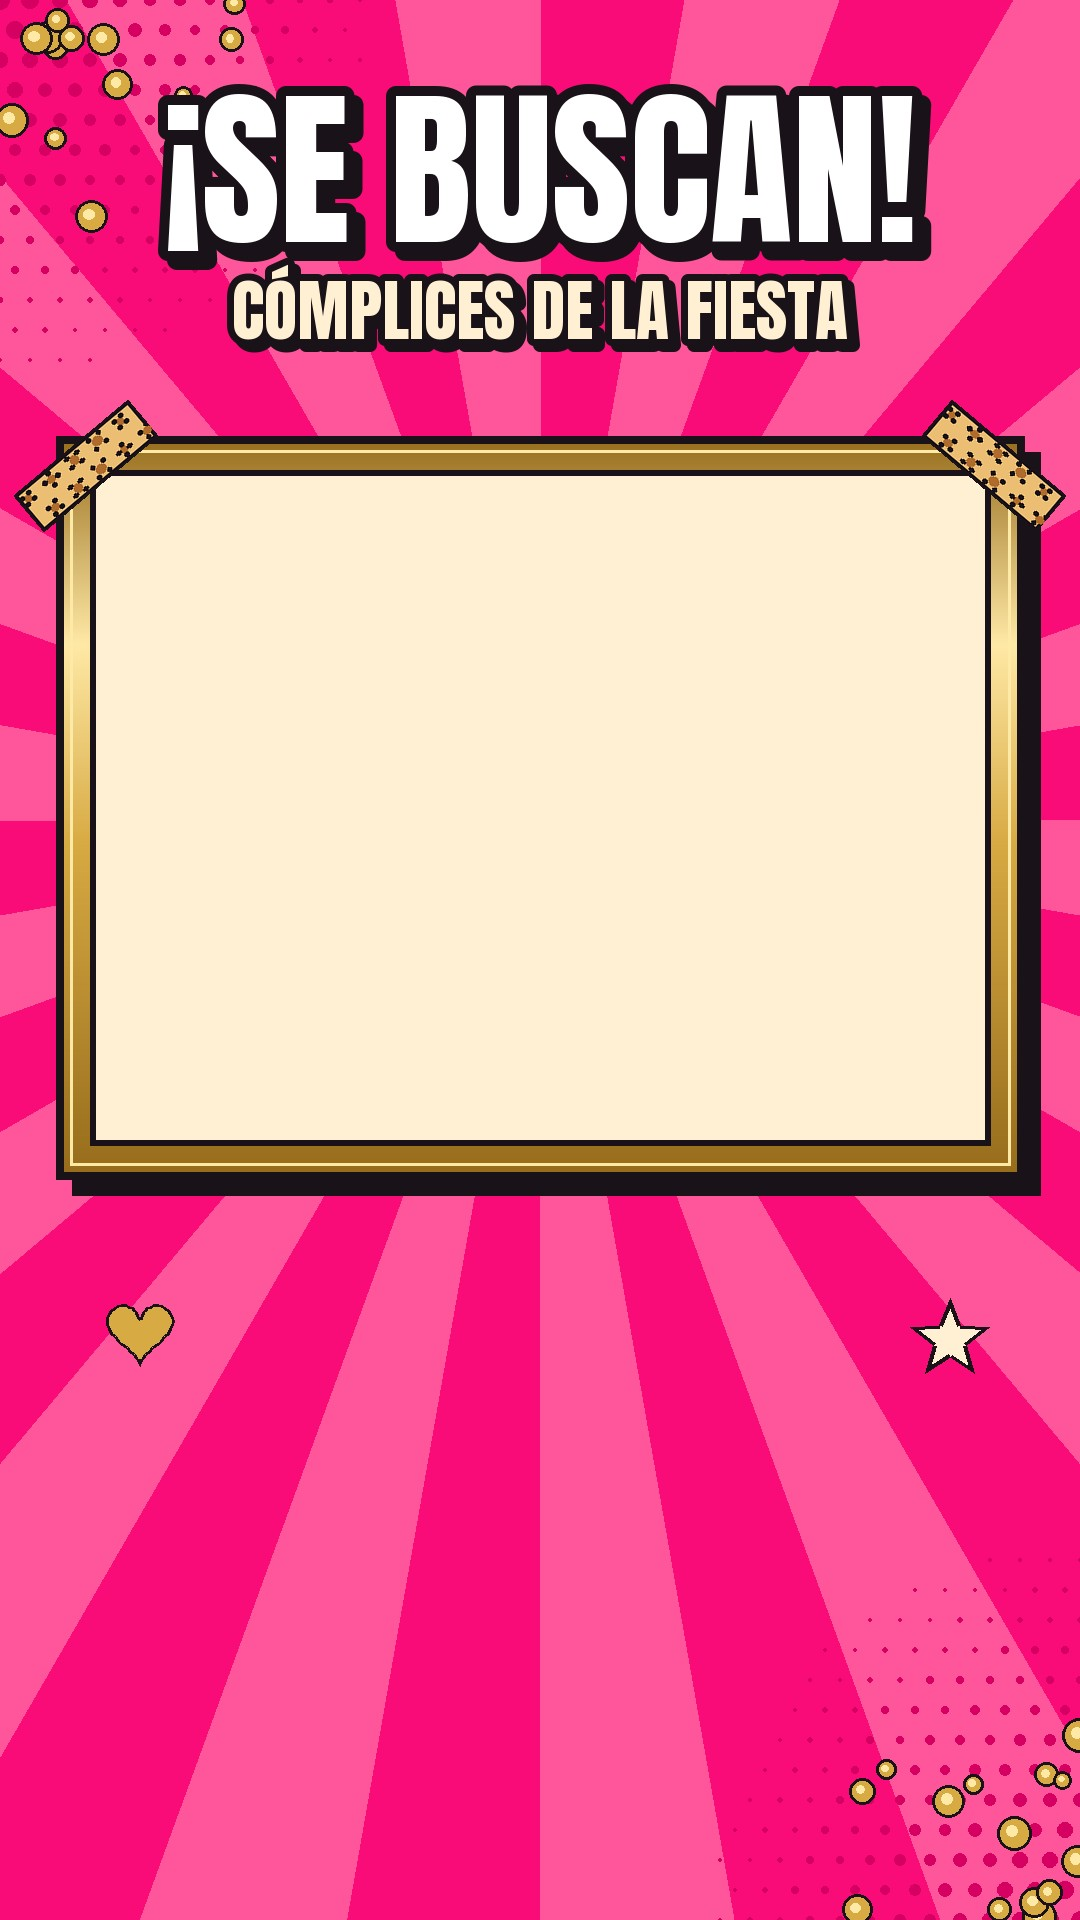
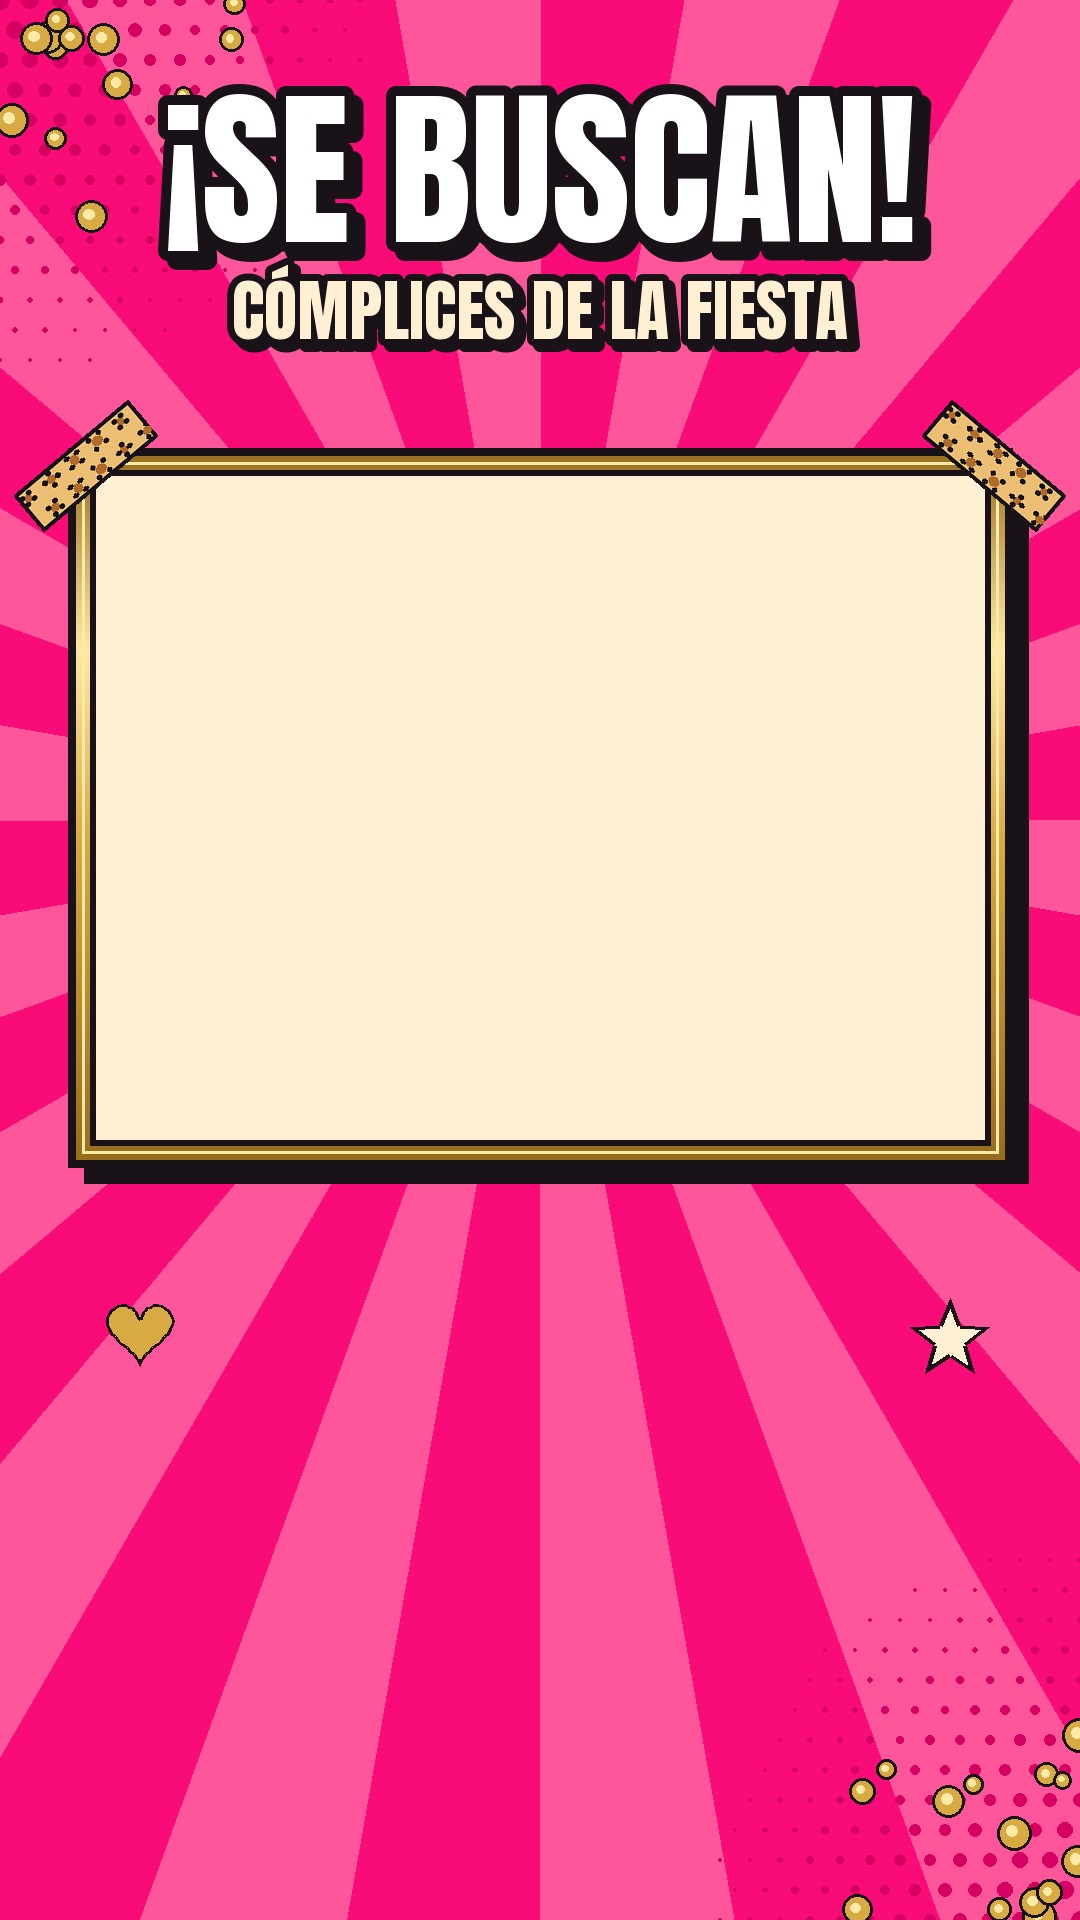
feat(cumpleclick): invitación de cumpleaños de adulto, foto grupal «cómplices» y ticket 026
- invitacion.php: en un cumpleaños de adulto no suena la narración de Alice
  (le habla a un niño), no hay capítulos, el video del evento se ve con su
  póster y controles (sin repetir la tarjeta encima) y la asistencia pide
  «tu nombre» y «¿vienes con alguien?» en vez de niños y apoderados.
- Foto grupal adulta: «Los cómplices de <nombre>», moldura más delgada para
  que el título no pise el marco.
- Prueba cumple-adulto-http.php: 36 comprobaciones, con control en rojo de
  la narración.
- Ticket AT-CUMPLECLICK-026, docs/CUMPLE-ADULTO-COQUETERIA.md y la sección
  PENDIENTE del FTP-MANIFEST con el orden de subida.

Changed region(s): [[0.0306, 0.2188, 0.9778, 0.625], [0.1222, 0.2188, 0.8861, 0.25]]

diff --git a/CumpleBooth/src/App.jsx b/CumpleBooth/src/App.jsx
@@ -2001,6 +2001,8 @@ function componerGrupal(fondoImg, fotoImg, caja, titulo, opciones = {}) {
 /** El texto del pie. En grupo saluda a todos; solo, al invitado. */
 function tituloAsomate(invitado, cuantos) {
   const quien = nombreEvento()
+  // En un cumpleaños de adulto la foto de todos sigue la broma de la temática: «cómplices».
+  if (cuantos > 1 && CABINA_ADULTO) return quien ? `Los cómplices de ${quien}` : '¡Los cómplices!'
   if (cuantos > 1) return quien ? `El cumple de ${quien} y sus amigos` : '¡Amigos!'
   if (invitado && quien) return `${invitado} en el cumple de ${quien}`
   if (quien) return `¡Feliz cumple, ${quien}!`

diff --git a/CumpleBooth/public/invitacion.php b/CumpleBooth/public/invitacion.php
@@ -49,6 +49,9 @@ if (!empty($invitation['expires_at']) && strtotime((string) $invitation['expires
 // dependen ya la narración y el vocabulario. `event_type` trae
 // 'child_birthday' por defecto, así que un cumpleaños no cambia nada.
 $esBabyShower = (string) ($invitation['event_type'] ?? 'child_birthday') === 'baby_shower';
+// Cumpleaños de adulto (AT-CUMPLECLICK-026): sin la voz de Alice (le habla a un niño), sin
+// capítulos de personajes y con un formulario de asistencia para adultos.
+$esAdulto = (string) ($invitation['event_type'] ?? '') === 'adult_birthday';
 
 $imageOutputs = cb_invitation_approved_outputs((int) $invitation['id'], 'personalized_image');
 if (!$imageOutputs) {
@@ -134,6 +137,12 @@ if (!is_file($narrationPlaylistEndPath)) {
 if (is_file($narrationPlaylistEndPath)) {
     $narrationPlaylistEndUrl = 'assets/audio/' . rawurlencode($narrationPlaylistEndFile)
         . '?v=' . rawurlencode((string) filemtime($narrationPlaylistEndPath));
+}
+
+if ($esAdulto) {
+    // Las dos narraciones compartidas dicen «cumpleañero/a» con voz para niños.
+    $narrationOutroUrl = '';
+    $narrationPlaylistEndUrl = '';
 }
 
 $themeData = is_array($themesData['themes'][$themeSlug] ?? null) ? $themesData['themes'][$themeSlug] : [];
@@ -796,6 +805,10 @@ if ($isPreview) {
     $tieneCapitulos = preg_match('/^[a-z0-9-]+$/', $themeSlug) === 1
         && is_dir(__DIR__ . '/themes/' . $themeSlug . '/invitation/chapters');
     $planChapters = $tieneCapitulos ? '1' : 'auto';
+}
+if ($esAdulto && !$isPreview) {
+    // Los capítulos y la playlist son el recorrido de personajes de las temáticas infantiles.
+    $planChapters = 'none';
 }
 
 // Comparación de candidatos detrás del modo resuelto. La versión aprobada de
@@ -1557,13 +1570,16 @@ $cssVer = static function (string $rel): string {
     </figure>
     <?php else: ?>
     <figure class="inv-art-frame">
+      <?php // Adulto con video: la tarjeta va como póster del video, no repetida encima. ?>
+      <?php if (!($esAdulto && $hasVideo)): ?>
       <img class="inv-art" src="<?= $esc($imageUrl) ?>" alt="<?= $esc($tituloInvitacion) ?>" decoding="async">
+      <?php endif; ?>
       <?php if ($hasVideo): ?>
       <?php /* Sin loop ni muted: el invitado lo inicia con un toque (gesto que
                ya permite el sonido) y al terminar la página avanza sola a los
                datos de la fiesta — un video de invitación se ve UNA vez, no en
                bucle mudo (pedido de Luis con la invitación de Luciano). */ ?>
-      <video class="inv-art-video" src="<?= $esc((string) $videoUrl) ?>" controls playsinline preload="metadata" data-inv-video-final></video>
+      <video class="inv-art-video" src="<?= $esc((string) $videoUrl) ?>" poster="<?= $esc($imageUrl) ?>" aria-label="<?= $esc($tituloInvitacion) ?>" controls playsinline preload="metadata" data-inv-video-final></video>
       <?php endif; ?>
     </figure>
     <?php endif; ?>
@@ -1761,7 +1777,7 @@ $cssVer = static function (string $rel): string {
     <p class="inv-share-status" data-share-status role="status" aria-live="polite"></p>
   </section>
 
-  <?php if ($eventProfile !== null): ?>
+  <?php if ($eventProfile !== null && !$esAdulto): ?>
   <section class="inv-finale inv-reveal" id="inv-protagonista">
     <p class="inv-kicker"><?= $esc($esBabyShower ? 'Antes del baby shower' : 'Antes de la fiesta') ?></p>
     <h2 class="inv-finale-title"><?= $esc($finaleTitulo) ?></h2>
@@ -1928,7 +1944,7 @@ $cssVer = static function (string $rel): string {
            data-inv-base="<?= $esc(rtrim((string) cb_public_base_url(), '/')) ?>/">
     <p class="inv-kicker">¿Nos acompañas?</p>
     <h2 class="inv-finale-title">Confirma tu asistencia</h2>
-    <p class="inv-finale-lede"><?= $esc($esBabyShower
+    <p class="inv-finale-lede"><?= $esc($esBabyShower || $esAdulto
         ? 'Dinos tu nombre y te guardamos un lugar.'
         : 'Cuéntanos quiénes vienen para recibirlos como estrellas.') ?></p>
     <button class="inv-button inv-rsvp-open" type="button" data-rsvp-open>
@@ -1939,15 +1955,15 @@ $cssVer = static function (string $rel): string {
       <form data-rsvp-form>
         <h3 class="inv-rsvp-title">Confirma tu asistencia</h3>
         <label class="inv-rsvp-campo">
-          <span><?= $esc($esBabyShower ? 'Tu nombre' : 'Nombre del apoderado o familia') ?></span>
+          <span><?= $esc($esBabyShower || $esAdulto ? 'Tu nombre' : 'Nombre del apoderado o familia') ?></span>
           <input type="text" name="family_name" maxlength="120" required
                  placeholder="<?= $esc($esBabyShower ? 'Ej: Carolina Díaz' : 'Ej: Familia Díaz / Carolina Díaz') ?>">
         </label>
         <?php if (!$esBabyShower): ?>
         <label class="inv-rsvp-campo">
-          <span>Nombre de los niños que vienen</span>
+          <span><?= $esc($esAdulto ? '¿Vienes con alguien? (opcional)' : 'Nombre de los niños que vienen') ?></span>
           <input type="text" name="guest_names" maxlength="400"
-                 placeholder="Ej: Emma y Lucas">
+                 placeholder="<?= $esc($esAdulto ? 'Ej: con Jorge' : 'Ej: Emma y Lucas') ?>">
         </label>
         <?php endif; ?>
         <p class="inv-rsvp-error" data-rsvp-error hidden>No pudimos guardar tu confirmación. Inténtalo de nuevo.</p>
@@ -1961,7 +1977,7 @@ $cssVer = static function (string $rel): string {
         <h3 class="inv-rsvp-title">¡Asistencia confirmada!</h3>
         <p><?= $esc($esBabyShower
             ? 'Gracias por avisar. ¡Nos vemos en el baby shower!'
-            : '¡La familia ya sabe que vienen! Nos vemos en la fiesta.') ?></p>
+            : ($esAdulto ? '¡Te esperamos! Nos vemos en la fiesta.' : '¡La familia ya sabe que vienen! Nos vemos en la fiesta.')) ?></p>
         <button class="inv-button inv-button-ghost" type="button" data-rsvp-cerrar>Cerrar</button>
       </div>
     </dialog>

diff --git a/CumpleBooth/tests/backend/cumple-adulto-http.php b/CumpleBooth/tests/backend/cumple-adulto-http.php
@@ -146,6 +146,33 @@ a_check(in_array('🍆', $api['theme']['cabinaAdulto']['juego']['emojis'], true)
 a_check($api['theme']['musica'] === '', 'sin pista en disco no se publica música');
 a_check(is_array($api['theme']['grupal']) && str_ends_with($api['theme']['grupal']['fondo'], 'fondo-grupal.jpg'), 'la foto grupal tiene su fondo');
 
+// La invitación de un cumpleaños de adulto: tarjeta + video del evento (subidos y aprobados),
+// sin la voz de Alice (le habla a un niño) y con un formulario de asistencia para adultos.
+$tokenInv = cb_opaque_token(16);
+$ahora = gmdate('Y-m-d H:i:s');
+cb_pdo()->prepare('INSERT INTO cc_invitations (public_token_hash,party_id,theme_slug,admin_label,birthday_person_name,
+    birthday_person_gender,event_type,event_date,event_time,address,message,language,channel,status,
+    visual_version,created_at,updated_at,created_by,published_at,published_by) VALUES (?,?,?,?,?,?,?,?,?,?,?,?,?,?,?,?,?,?,?,?)')
+    ->execute([cb_hash_token($tokenInv), cb_party_db_id($slug), 'adulto-coqueteria-pop', 'Prueba adulta', 'Marta Prueba', 'f',
+        'adult_birthday', '2026-12-04', '19:00', 'Calle Ficticia 123', 'Los peques a soñar; los grandes a celebrar.',
+        'es', 'link', 'published', 1, $ahora, $ahora, 'test', $ahora, 'test']);
+$invId = (int) cb_pdo()->lastInsertId();
+$dirInv = (string) cb_config('invitation_dir');
+$lienzo = imagecreatetruecolor(90, 160);
+foreach ([['personalized_image', 'lamina', 'jpg', 'image/jpeg'], ['personalized_video', 'video', 'mp4', 'video/mp4']] as [$tipo, $clave, $ext, $mime]) {
+    $key = cb_invitation_storage_key($slug, $clave, 1, $ext);
+    @mkdir(dirname($dirInv . '/' . $key), 0770, true);
+    $ext === 'jpg' ? imagejpeg($lienzo, $dirInv . '/' . $key) : file_put_contents($dirInv . '/' . $key, str_repeat("\0", 64));
+    cb_save_invitation_output($invId, ['output_type' => $tipo, 'asset_key' => $clave, 'file_storage_key' => $key, 'status' => 'approved',
+        'file_mime' => $mime, 'file_byte_size' => filesize($dirInv . '/' . $key), 'file_sha256' => hash_file('sha256', $dirInv . '/' . $key)]);
+}
+$r = $luis->pedir('GET', '/invitacion.php?t=' . $tokenInv);
+a_check($r['estado'] === 200 && str_contains($r['html'], 'Marta Prueba'), 'la invitación adulta abre');
+a_check(!str_contains($r['html'], 'narracion-final') && !str_contains($r['html'], 'narracion-playlist-final'), 'sin la narración de Alice para niños');
+a_check(preg_match('#<video class="inv-art-video"[^>]*poster="[^"]+"[^>]*controls#', $r['html']) === 1, 'el video del evento se inicia a mano y muestra la tarjeta como póster');
+a_check(!str_contains($r['html'], 'Nombre de los niños') && !str_contains($r['html'], 'apoderado'), 'la asistencia no pregunta por niños ni apoderados');
+a_check(str_contains($r['html'], 'Los peques a soñar; los grandes a celebrar.'), 'el mensaje del anfitrión se muestra');
+
 // La infantil no cambia.
 cb_save_parties(['parties' => array_merge(cb_load_parties()['parties'], ['tomas-infantil' => [
     'nombre' => 'Tomás', 'tema' => 'spidey', 'edad' => 6, 'fecha' => '2026-12-05', 'activa' => true,

diff --git a/CumpleBooth/design/generadores/tematicas/coqueteria_pop.py b/CumpleBooth/design/generadores/tematicas/coqueteria_pop.py
@@ -274,7 +274,8 @@ def fondo_grupal():
     alto = round((x1 - x0) * 3 / 4)
     y0 = 470
     y1 = y0 + alto
-    borde = 34
+    # Moldura delgada: el kiosco escribe el título del grupo 26 px bajo el hueco (componerGrupal).
+    borde = 22
     marco_dorado(im, x0 - borde, y0 - borde, x1 + borde, y1 + borde, borde)
     cinta_esquina(im, x0 - 4, y0 - 4, 40)
     cinta_esquina(im, x1 + 4, y0 - 4, -40)

diff --git a/CumpleBooth/docs/CUMPLE-ADULTO-COQUETERIA.md b/CumpleBooth/docs/CUMPLE-ADULTO-COQUETERIA.md
@@ -1,0 +1,69 @@
+# Cumpleaños de adulto y temática «Coquetería Pop» (AT-CUMPLECLICK-026)
+
+Estado al 2026-10-11: **LOCAL, sin desplegar**. Rama `claude/cumple-adulto-coqueteria`, base `origin/main` (`188ba45`).
+Ticket: `Docs/ORCHESTRATION/AT-CUMPLECLICK-026.yaml`.
+
+El piloto es un cumpleaños privado. Sus datos, fotos, video y dirección **no están ni deben estar** en este repositorio
+(es público): viven en el paquete privado de Codex y, al desplegar, en la base y el almacén privado de PROD.
+
+## Qué es
+
+Una tercera modalidad de evento, `adult_birthday`, junto a `child_birthday` y `baby_shower`, y una temática genérica
+para ella. La temática no lleva nombre, edad ni fotos: el kiosco escribe el nombre y la edad de la fiesta encima.
+
+| Pieza | Dónde | Qué hace |
+|---|---|---|
+| Modalidad | `public/lib.php` `cb_party_event_type()` | Reemplaza los nueve `=== 'baby_shower' ? … : 'child_birthday'` que había repartidos. Lo desconocido cae a infantil. |
+| Guarda de temática | `cb_theme_is_adult()` + admin + `cb_resolve_party()` | Temática adulta solo con cumpleaños de adulto y al revés. El admin avisa; `api.php` responde 409 si la base trae el cruce. |
+| Edad | `cb_party_age_valid()` | Niño 1–17, adulto 18–120. **Antes se recortaba a 17 al guardar y «69» se perdía sin aviso.** |
+| Temática | `public/data/themes.json` → `adulto-coqueteria-pop` | `audiencia: adulto`, sin personajes, `frameBox`, `grupal` y el bloque `cabinaAdulto` (frases, lema, recuerdo, cinta, panel, juego). |
+| Fondos | `public/themes/adulto-coqueteria-pop/` | `fondo-sala.jpg` (marco «¡Se busca!»), `fondo-banner.jpg` (bienvenida), `fondo-grupal.jpg`. Hechos con código, sin IA: `design/generadores/tematicas/coqueteria_pop.py`. |
+| Kiosco | `src/App.jsx`, `src/cumpleAdulto.js` | Bienvenida → «¡Atrapa la coquetería!» (se puede saltar) → elegir frase → cámara → ficha → QR. Sin ruleta, sin diploma, sin música si no hay pista. |
+| Invitación | `public/invitacion.php` | Sin la voz de Alice (le habla a un niño), sin capítulos, video del evento con póster y controles, asistencia para adultos. |
+
+## Contrato de `cabinaAdulto` (themes.json)
+
+```json
+"cabinaAdulto": {
+  "titulo": "gente con ganas de pasarlo bien",
+  "lema": "{edad} y todavía doy guerra",
+  "recuerdo": "Cómplice oficial de {nombre}",
+  "cinta": {"x": 0.0833, "y": 0.6229, "w": 0.8333, "h": 0.0521},
+  "panel": {"x": 0.0741, "y": 0.6979, "w": 0.8519, "h": 0.1875},
+  "frases": ["…hasta 12, de hasta 48 letras; {nombre} permitido…"],
+  "juego": {"label": "¡Atrapa la coquetería!", "emojis": ["🍆", "🍑", "💋", "🍒", "🌶"]}
+}
+```
+
+`cb_theme_cabina_adulto()` lo copia campo por campo. Una cinta o un panel fuera del lienzo invalidan el bloque. Solo una
+temática adulta lo publica; el kiosco infantil no recibe ni la clave. Sin `{edad}` en la fiesta, el lema cambia entero
+(«Y todavía doy guerra»), y sin nombre «Cómplice oficial de la fiesta»: nunca queda un hueco.
+
+`cinta` y `panel` son las cajas que el generador pinta vacías en `fondo-sala.jpg`; si se rehace el fondo, se copian los
+valores que imprime el script.
+
+## Juego de atrapar
+
+Es el mismo `JuegoCopos` del baby shower («Atrapa los chupetes»), con 20 segundos y los emojis del bloque. Los de doble
+sentido (🍆🍑) son el pedido de Luis («atrapa algo asociado a la temática»). Se eligieron emojis y no dibujos explícitos
+porque funcionan en cualquier tablet, no cuestan nada y la foto se puede mostrar en la fiesta. El puntaje queda impreso
+en la ficha.
+
+## Lo que sigue siendo propuesta (no implementado)
+
+El paquete de Codex propone un modo animador con tarjetas, cronómetro y puntaje por equipos (Tribunal de la coquetería,
+Piropos bajo arresto, Doble sentido, Dueña del swing…). Luis no lo aprobó: no se programó. El guion y las tarjetas del
+paquete sirven impresos o en el celular del animador.
+
+## Cómo probarlo en local
+
+- `node --test tests/frontend/cumpleAdulto.test.mjs` (textos y temática genérica).
+- `php tests/backend/cumple-adulto-http.php` (36: admin, api del kiosco, invitación, fiesta infantil sin cambios y cruce
+  en la base). Tiene dos controles en rojo hechos: con el tope viejo de 17 falla la edad, y sin la guarda de la narración
+  falla «sin la narración de Alice».
+- El recorrido del kiosco se probó con Chrome sin ventana y una cámara falsa (retrato ficticio), en una SQLite temporal.
+
+## No probado
+
+Tablet real, cámara real con personas (grupos, alturas, gafas), impresión, la invitación en un teléfono real, el video
+verdadero del evento (el local usó uno de 2 s hecho con el fondo).

diff --git a/CumpleBooth/docs/FTP-MANIFEST.md b/CumpleBooth/docs/FTP-MANIFEST.md
@@ -21,6 +21,32 @@ grep -o 'assets/[a-zA-Z0-9._-]*' dist/index.html   # lo que index.html pide
 Sube **todos** los de `dist/assets/` junto con `dist/index.html` en la misma
 tanda. Los que sobren del build anterior se pueden borrar después.
 
+## PENDIENTE 2026-10-11 — cumpleaños de adulto y temática Coquetería Pop (AT-CUMPLECLICK-026, LOCAL)
+
+Nada de esto está en PROD. Rama `claude/cumple-adulto-coqueteria` sobre `origin/main`. Detalle en
+`docs/CUMPLE-ADULTO-COQUETERIA.md`. **Sin migración** (`event_type` es VARCHAR(40) y `birthday_age` TINYINT).
+Requiere el go de Luis.
+
+Orden de subida (destino `app/`, origen `dist/` después de `npx vite build`):
+
+| # | Local | Destino PROD | Clase |
+|---|---|---|---|
+| 1 | `dist/themes/adulto-coqueteria-pop/fondo-sala.jpg`, `fondo-banner.jpg`, `fondo-grupal.jpg` | `app/themes/adulto-coqueteria-pop/` (carpeta nueva) | OBLIGATORIO |
+| 2 | `dist/lib.php` | `app/lib.php` | OBLIGATORIO, antes que los PHP de abajo (define `cb_party_event_type`) |
+| 3 | `dist/lib.invitations.php`, `dist/lib.predictions.php`, `dist/ver.php`, `dist/invitacion.php` | `app/` | OBLIGATORIO |
+| 4 | `dist/admin/index.php` | `app/admin/index.php` | OBLIGATORIO |
+| 5 | `dist/data/themes.json` | `app/data/themes.json` | OBLIGATORIO |
+| 6 | `dist/assets/` que referencia el `index.html` nuevo y no estén en PROD (al 11-oct: `main-*.js`, `main-*.css`, `anton-latin-400-normal-*.woff2`; cotejar el resto por nombre) | `app/assets/` | OBLIGATORIO |
+| 7 | `dist/index.html` | `app/index.html` | OBLIGATORIO, al final |
+
+No subir: `design/generadores/`, `tests/`, `docs/`, ni el paquete privado del piloto. Las fotos y el video del piloto
+se suben **por el admin** (Invitaciones → imagen y video aprobados), que los guarda en el almacén privado fuera de
+`public_html`.
+
+Respaldo previo: `app/lib.php`, `app/invitacion.php`, `app/admin/index.php`, `app/data/themes.json` y `app/index.html`.
+Verificación desde afuera: `api.php?p=<fiesta infantil existente>` sin `edad` ni `cabinaAdulto` y con sus personajes;
+una fiesta adulta de prueba con `event_type: adult_birthday`.
+
 ## DESPLEGADO 2026-09-13 (07:05) — usuarios del backoffice: superadministrador y operadores por fiesta
 
 Luis pidió, la madrugada de las dos fiestas, poder delegar el admin de una fiesta a una persona:
